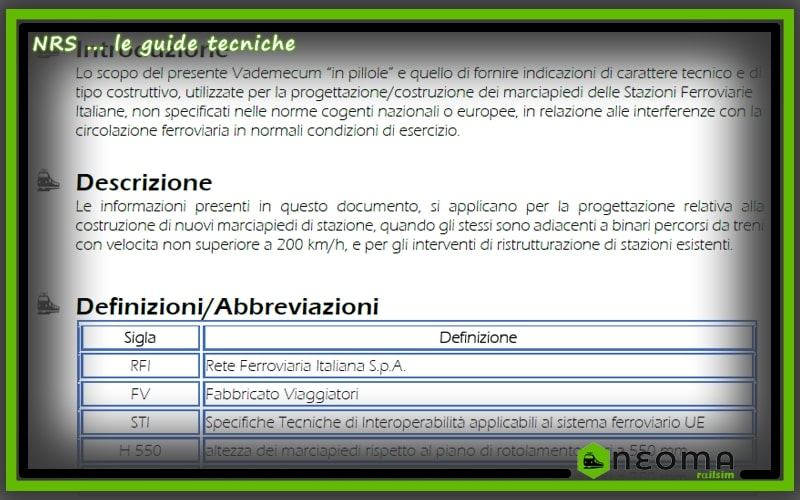
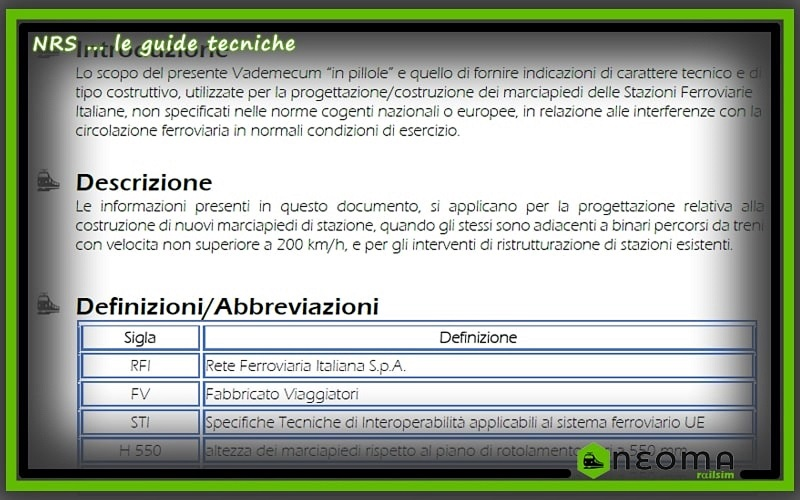
Added downloads

Changed region(s): [[0.1875, 0.75, 0.2812, 0.78], [0.4688, 0.75, 0.5, 0.78]]

diff --git a/downloads/varie.html b/downloads/varie.html
@@ -67,12 +67,14 @@
                     <div><h6><img class="" src="../Assets/Images/Downloads/Varie/Guida Prescrizione Marciapiedi/Marciapiedi_00.jpg"></h6></div>
                     <div><h6><img class="" src="../Assets/Images/Downloads/Varie/Guida Prescrizione Marciapiedi/Marciapiedi_02.jpg"></h6></div>
                     <div><h6><img class="" src="../Assets/Images/Downloads/Varie/Guida Prescrizione Marciapiedi/Marciapiedi_03.jpg"></h6></div>
+                    <div><h6><img class="" src="../Assets/Images/Downloads/Varie/Guida Prescrizione Marciapiedi/Marciapiedi_02.jpg"></h6></div>
                 </div>
                 <div class="slider slider-nav">
                     <div><h5><img class="thumb" src="../Assets/Images/Downloads/Varie/Guida Prescrizione Marciapiedi/Marciapiedi_Copertina.jpg"></h5></div>
                     <div><h5><img class="thumb" src="../Assets/Images/Downloads/Varie/Guida Prescrizione Marciapiedi/Marciapiedi_00.jpg"></h5></div>
                     <div><h5><img class="thumb" src="../Assets/Images/Downloads/Varie/Guida Prescrizione Marciapiedi/Marciapiedi_02.jpg"></h5></div>
                     <div><h5><img class="thumb" src="../Assets/Images/Downloads/Varie/Guida Prescrizione Marciapiedi/Marciapiedi_03.jpg"></h5></div>
+                    <div><h5><img class="thumb" src="../Assets/Images/Downloads/Varie/Guida Prescrizione Marciapiedi/Marciapiedi_02.jpg"></h5></div>
                 </div>
             </div>
             </div>
